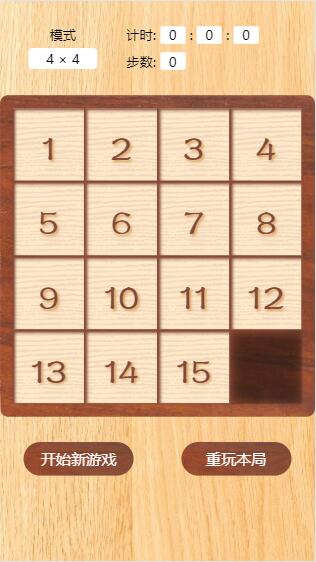
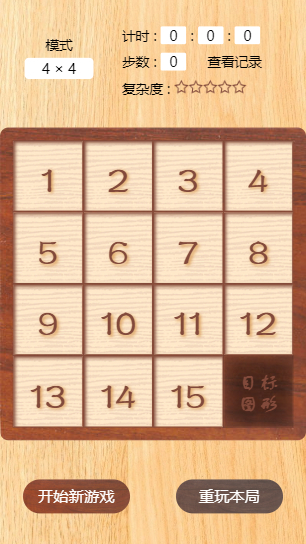
scroll

diff --git a/index.html b/index.html
@@ -18,21 +18,33 @@
       width: 100%;
       height: 100%;
       background-image: url('img/bg.jpg');
+      background-attachment: fixed;
       background-size: cover;
       user-select: none;
       -webkit-user-select: none;
       -moz-user-select: none;
       -ms-user-select: none;
     }
-  
+
+    body {
+      height: calc(100% - 20px);
+    }
+
+    ::-webkit-scrollbar {
+      display: none;
+    }
+
     @media screen and (max-width:768px) {
       .container {
         width: 100%;
         height: 100%;
+        display: flex;
+        flex-direction: column;
+        justify-content: space-around;
       }
   
       .header {
-        padding: 20px;
+        padding: 5px 15px;
         font-size: 16px;
         display: flex;
       }
@@ -66,12 +78,14 @@
       }
   
       .list-wrap {
-        margin-bottom: 30px;
+        margin-bottom: 15px;
       }
   
       .succ {
         width: calc((100% - 30px) * 0.25);
         height: calc((100% - 30px) * 0.25);
+        line-height: 24px;
+        font-size: 24px;
       }
   
       .rank-wrap {
@@ -79,7 +93,7 @@
       }
   
       .score-btn {
-        margin-left: 20px;
+        margin-left: 10px;
         padding: 0 10px;
         font-size: 16px;
         background: transparent;
@@ -127,6 +141,7 @@
       .succ {
         width: 115px;
         height: 115px;
+        font-size: 36px;
       }
   
       .rank-wrap {
@@ -248,7 +263,6 @@
       position: absolute;
       top: calc((100% - 30px) * 0.75 + 15px);
       left: calc((100% - 30px) * 0.75 + 15px);
-      font-size: 36px;
       font-weight: 700;
       font-family: '方正舒体';
       color: #824A3A;
@@ -476,6 +490,7 @@
               that.count++
             }
             else if (e.keyCode === 38 && empty < that.num - that.mode) {
+              e.preventDefault()
               that.$set(that.list, empty, that.list[empty + that.mode])
               that.$set(that.list, empty + that.mode, '')
               that.count++
@@ -486,6 +501,7 @@
               that.count++
             }
             else if (e.keyCode === 40 && empty > that.mode) {
+              e.preventDefault()
               that.$set(that.list, empty, that.list[empty - that.mode])
               that.$set(that.list, empty - that.mode, '')
               that.count++
